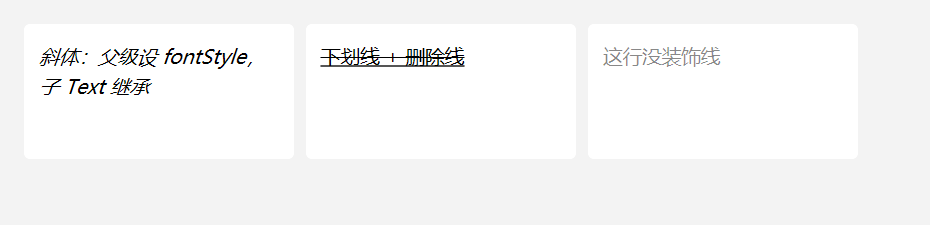
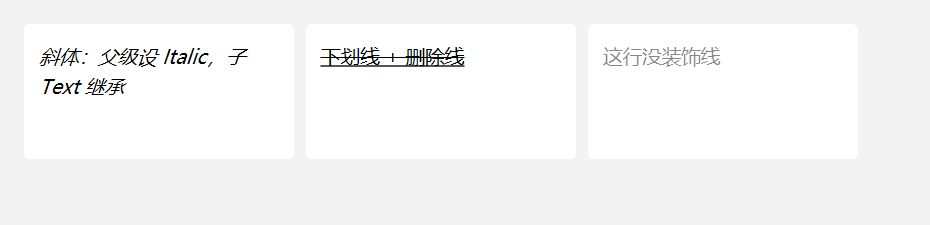
style

Changed region(s): [[0.0312, 0.3422, 0.1871, 0.4356], [0.1559, 0.2178, 0.2806, 0.3111]]

diff --git a/DUI/UI/Style.h b/DUI/UI/Style.h
@@ -43,6 +43,7 @@ enum class Prop : uint16_t {
     // 布局
     Display, FlexDirection, FlexShrink, FlexGrow, Gap, JustifyContent, AlignItems,
     // 布局（续）
+    //   FlexWrap      u = 1 换行 / 0 不换行（仅 Row；同 CSS flex-wrap 的 wrap/nowrap 子集）
     FlexWrap,
     // 滚动条（dui::Scroller 自绘轨道/滑块；宽度 = 纵向条厚，高度 = 横向条厚）
     ScrollbarTrackWidth, ScrollbarTrackHeight,
@@ -60,19 +61,19 @@ enum class Prop : uint16_t {
     // u = 颜色 ARGB（0 = 无阴影）。只投元素边框盒，走 Shape 批 kind=3 的 SDF 衰减带。
     Shadow,
     // 字体样式 / 文本装饰（M5.51；追加在表尾，不重排已有属性 ID）：
-    //   FontStyle     u = dui::FontStyle（Normal / Italic；继承属性，同 CSS）
+    //   Italic        u = 1 斜体 / 0 常规（继承属性，同 CSS font-style 的 normal/italic 子集）
     //   TextDecoration u = dui::TextDecoration 位标志（Underline / LineThrough；不继承，同 CSS）
-    FontStyle, TextDecoration,
+    Italic, TextDecoration,
     // 布局 / 文本补充（M5.52；追加在表尾，不重排已有属性 ID）：
     //   LetterSpacing f = 字距（DIP；引擎按 em 千分比下发）
     //   AlignSelf     u = dui::Align（Auto = 未设 → 取父 alignItems）
     //   MinHeight / MaxHeight  f = DIP（与 Min/MaxWidth 对称）
     //   RowGap / ColumnGap    f = DIP（行列间距；未设则回落 gap）
     //   FlexBasis     f = DIP（主轴基准尺寸；按元素盒语义，与 Width 一致）
-    //   Visibility    u = dui::Visibility（继承属性，同 CSS）
+    //   Visible       u = 1 表示可见 / 0 表示隐藏（继承属性；CSS visibility 子集）
     //   Overflow      u = dui::Overflow（Visible / Hidden / Scroll）
     LetterSpacing, AlignSelf, MinHeight, MaxHeight, RowGap, ColumnGap, FlexBasis,
-    Visibility, Overflow,
+    Visible, Overflow,
     // 词距（M5.55；追加在表尾，不重排已有属性 ID）：
     //   WordSpacing f = 词距（DIP；引擎按 em 千分比下发给空格字符区间）
     WordSpacing,
@@ -119,19 +120,14 @@ inline GridTrack Flex(float shares)      { return {GridTrackKind::Flex, shares};
 inline GridTrack Percent(float percent)  { return {GridTrackKind::Percent, percent}; }
 inline constexpr GridTrack Auto{GridTrackKind::Auto, 0.f};
 enum class FlexDirection : uint8_t { Row, Column };
-enum class FlexWrap : uint8_t { NoWrap, Wrap };              // 主轴放不下时换行（仅 Row；04-Layout §4.1 MVP）
 enum class Position : uint8_t { Static, Relative, Absolute, Fixed };   // 04-Layout §4.3
 enum class Justify : uint8_t { Start, Center, End, SpaceBetween, SpaceAround, SpaceEvenly };  // 主轴对齐（04-Layout §4.1）
 // 交叉轴对齐：Stretch 拉满 / Start / Center / End（贴末端）/ Baseline（首行基线对齐）
 enum class Align : uint8_t { Stretch, Start, Center, End, Baseline };
-// 可见性（CSS visibility 子集；**继承属性**）：Hidden = 占位但不画、不命中
-enum class Visibility : uint8_t { Visible, Hidden };
-// 溢出处理（CSS overflow 子集）：Visible 不裁剪 / Hidden 裁剪到内容盒 /
+// 溢出处理（CSS overflow 子集）：Visible 不裁剪 / Hidden 裁剪到元素盒（padding box）/
 // Scroll 裁剪但不显示滚动条（框架的滚动用 Scroller 控件实现）
 enum class Overflow : uint8_t { Visible, Hidden, Scroll };
 enum class FontWeight : uint8_t { Normal, Medium, SemiBold, Bold };
-// CSS font-style 子集：仅常规 / 斜体（oblique 归 italic）
-enum class FontStyle : uint8_t { Normal, Italic };
 // CSS text-decoration 子集（位标志，可组合）：下划线 / 删除线。
 // 无 overline —— DWrite 的 text layout 没有该装饰，引擎也不画。
 enum class TextDecoration : uint8_t {
@@ -267,7 +263,7 @@ public:
     Style& JustifyContent(dui::Justify v);       // 主轴：剩余空间分配
     Style& AlignItems(dui::Align v);             // 交叉轴：子项对齐
     Style& AlignSelf(dui::Align v);              // 交叉轴：单项覆盖（Auto = 未设）
-    Style& FlexWrap(dui::FlexWrap v);            // 主轴放不下时断行（仅 Row）
+    Style& FlexWrap(bool on);                    // 主轴放不下时断行（仅 Row；true = 换行）
     // Grid（04-Layout §4.2）：轨道列表是变长声明，实体存本对象内，
     // FindTracks 沿派生链由近及远找第一个非空定义。
     Style& GridTemplateColumns(std::initializer_list<GridTrack> tracks);
@@ -287,7 +283,7 @@ public:
     Style& Color(dui::Color c);
     Style& FontSize(float dip);
     Style& FontWeight(dui::FontWeight v);
-    Style& FontStyle(dui::FontStyle v);           // 斜体（继承属性，同 CSS font-style）
+    Style& Italic(bool on);                      // 斜体（继承属性；同 CSS font-style 的 normal/italic 子集）
     Style& TextDecoration(dui::TextDecoration v);   // 下划线 / 删除线（位标志，可组合）
     Style& FontFamily(const wchar_t* name);      // 系统已安装字体族；指针需存活到样式使用期
     Style& LineHeight(float multiple);
@@ -296,9 +292,10 @@ public:
     Style& TextAlign(dui::TextAlign v);          // 内容盒内水平对齐（继承属性）
     Style& TextOverflow(dui::TextOverflow v);    // 文本溢出表现（继承属性；Ellipsis = 末尾省略号）
     Style& Opacity(float v);                     // 0..1
-    // 可见性（继承属性，同 CSS visibility）：Hidden = 占位但不画、不命中
-    Style& Visibility(dui::Visibility v);
-    // 溢出：Hidden 裁剪到内容盒；Scroll 裁剪但不画滚动条（滚动用 Scroller 控件）
+    // 可见性（**继承属性**；CSS `visibility` 子集）：false = 占位但不画、不命中
+    // （注意与 `Display::None` 区分：那个是彻底不参与布局）
+    Style& Visible(bool on);
+    // 溢出：Hidden 裁剪到元素盒（padding box）；Scroll 裁剪但不画滚动条（滚动用 Scroller 控件）
     Style& Overflow(dui::Overflow v);
     // 盒模型（CSS box-sizing；非继承）：ContentBox = 宽高不含边框（默认）、
     // BorderBox = 宽高含边框（内容区 = 盒 − 边框 − 内边距）
@@ -391,10 +388,10 @@ struct StyleContext {
     float    letterSpacing = 0.f;     // 继承的字距（DIP）
     float    wordSpacing = 0.f;       // 继承的词距（DIP；加宽词间空格）
     uint32_t fontWeight = 0;
-    uint32_t fontStyle = 0;            // 继承的 dui::FontStyle（默认 Normal）
+    bool    italic = false;           // 继承的斜体（默认常规）
     uint32_t textAlign = 0;            // 继承的 dui::TextAlign（默认 Start）
     uint32_t textOverflow = 0;         // 继承的 dui::TextOverflow（默认 Clip）
-    uint32_t visibility = 0;           // 继承的 dui::Visibility（默认 Visible）
+    bool    visible = true;            // 继承的可见性（默认可见；false = 占位但不画）
     const wchar_t* family = nullptr;   // 继承字体族；nullptr = 引擎默认（微软雅黑）
     float    scale = 1.f;   // 遍历期 DPI 缩放（图像类控件据此把像素尺寸换算为 DIP）
 

diff --git a/DUI/UI/StyleResolve.cpp b/DUI/UI/StyleResolve.cpp
@@ -29,14 +29,14 @@ bool IsInherited(Prop p) {
     case Prop::Color:
     case Prop::FontSize:
     case Prop::FontWeight:
-    case Prop::FontStyle:
+    case Prop::Italic:
     case Prop::FontFamily:
     case Prop::LineHeight:
     case Prop::LetterSpacing:
     case Prop::WordSpacing:
     case Prop::TextAlign:
     case Prop::TextOverflow:
-    case Prop::Visibility:   // 可见性：父设 hidden 则子树隐藏（子可显式设 visible 反转）
+    case Prop::Visible:   // 可见性：父设隐藏则子树隐藏（子可显式设可见反转）
     case Prop::Cursor:   // 光标：父元素设了，子元素未设则沿用（同 CSS 的 cursor 继承）
     case Prop::AppRegion:   // 窗口拖动区：父设 drag 则子树继承（子设 no-drag 挖洞）
         return true;
@@ -113,11 +113,11 @@ bool TryResolve(const Element* e, Prop p, const StyleContext& ctx, StyleValue& o
     case Prop::LetterSpacing: out = MakeF(p, ctx.letterSpacing); return true;
     case Prop::WordSpacing: out = MakeF(p, ctx.wordSpacing); return true;
     case Prop::FontWeight: out = MakeU(p, ctx.fontWeight); return true;
-    case Prop::FontStyle:  out = MakeU(p, ctx.fontStyle);  return true;
+    case Prop::Italic:  out = MakeU(p, ctx.italic ? 1u : 0u);  return true;
     case Prop::FontFamily: out.family = ctx.family;        return true;   // nullptr = 引擎默认
     case Prop::TextAlign:  out = MakeU(p, ctx.textAlign);  return true;
     case Prop::TextOverflow: out = MakeU(p, ctx.textOverflow); return true;
-    case Prop::Visibility: out = MakeU(p, ctx.visibility); return true;
+    case Prop::Visible: out = MakeU(p, ctx.visible ? 1u : 0u); return true;
     default:
         return false;   // 非继承属性：交给内建默认（层 7）
     }
@@ -146,6 +146,11 @@ StyleValue BuiltinDefault(Prop p) {
     case Prop::ScrollbarThumbHeight:        return MakeF(p, 8.f);
     case Prop::ScrollbarTrackBackgroundColor: return MakeU(p, 0x14000000);
     case Prop::ScrollbarThumbBackgroundColor: return MakeU(p, 0x30000000);
+    // 可见性：u = 1 表示可见（默认可见）；default 分支的 0 在这里是"隐藏"，必须显式给
+    case Prop::Visible:        return MakeU(p, 1u);
+    // 两态布尔（u = 1 开启 / 0 关闭）：default 分支的 0 恰是"关闭"，语义正确，显式写出以固化约定
+    case Prop::Italic:         return MakeU(p, 0u);   // 0 = 常规（不斜体）
+    case Prop::FlexWrap:       return MakeU(p, 0u);   // 0 = 不换行
     default:
         return MakeU(p, 0);   // Flex / 透明 / 0 尺寸
     }
@@ -177,11 +182,11 @@ StyleContext StyleContext::Child(const Element* e) const {
     if (TryResolveElement(e, Prop::LetterSpacing, v)) c.letterSpacing = v.f;
     if (TryResolveElement(e, Prop::WordSpacing, v)) c.wordSpacing = v.f;
     if (TryResolveElement(e, Prop::FontWeight, v)) c.fontWeight = v.u;
-    if (TryResolveElement(e, Prop::FontStyle, v))  c.fontStyle = v.u;
+    if (TryResolveElement(e, Prop::Italic, v))  c.italic = (v.u != 0);
     if (TryResolveElement(e, Prop::FontFamily, v)) c.family = v.family;   // nullptr 透传引擎默认
     if (TryResolveElement(e, Prop::TextAlign, v))  c.textAlign = v.u;
     if (TryResolveElement(e, Prop::TextOverflow, v)) c.textOverflow = v.u;
-    if (TryResolveElement(e, Prop::Visibility, v)) c.visibility = v.u;
+    if (TryResolveElement(e, Prop::Visible, v)) c.visible = (v.u != 0);
     return c;
 }
 
@@ -345,7 +350,7 @@ uint32_t PropFlagsOf(Prop p) {
     case Prop::FontFamily:
     case Prop::LineHeight:
     // 斜体 / 文本装饰：段落要重新排版（斜体改字形宽度；装饰线进引擎的形状缓存键）
-    case Prop::FontStyle:
+    case Prop::Italic:
     case Prop::TextDecoration:
     case Prop::TextOverflow:   // 省略号截断要重排（截断点随宽度变）
     case Prop::BoxSizing:     // 盒模型：内容区尺寸随之变化
@@ -364,7 +369,7 @@ uint32_t PropFlagsOf(Prop p) {
     case Prop::AlignItems:
     case Prop::FlexWrap:
     // 布局补充（M5.52）：字距改排版宽度；alignSelf 改单项交叉轴；min/max 高；
-    // 行列间距；flexBasis 改主轴基准尺寸；visibility 改可见性（布局期写命中标记）
+    // 行列间距；flexBasis 改主轴基准尺寸；visible 改可见性（布局期写命中标记）
     case Prop::LetterSpacing:
     case Prop::WordSpacing:
     case Prop::AlignSelf:
@@ -373,7 +378,7 @@ uint32_t PropFlagsOf(Prop p) {
     case Prop::RowGap:
     case Prop::ColumnGap:
     case Prop::FlexBasis:
-    case Prop::Visibility:
+    case Prop::Visible:
     // 定位：改布局盒，需重新 Measure/Arrange
     case Prop::Position:
     case Prop::Left:

diff --git a/DUI/UI/Style.cpp b/DUI/UI/Style.cpp
@@ -71,7 +71,7 @@ Style& Style::FlexBasis(float dip)                 { return SetF(Prop::FlexBasis
 Style& Style::JustifyContent(dui::Justify v)       { return SetU(Prop::JustifyContent, static_cast<uint32_t>(v)); }
 Style& Style::AlignItems(dui::Align v)             { return SetU(Prop::AlignItems, static_cast<uint32_t>(v)); }
 Style& Style::AlignSelf(dui::Align v)              { return SetU(Prop::AlignSelf, static_cast<uint32_t>(v)); }
-Style& Style::FlexWrap(dui::FlexWrap v)            { return SetU(Prop::FlexWrap, static_cast<uint32_t>(v)); }
+Style& Style::FlexWrap(bool on)                    { return SetU(Prop::FlexWrap, on ? 1u : 0u); }
 // Grid：占位声明让 Prop 在级联里可见，变长轨道实体存 vector（push_back 避免异常展开实例化）
 Style& Style::GridTemplateColumns(std::initializer_list<GridTrack> tracks) {
     gridCols_.clear();
@@ -95,7 +95,7 @@ Style& Style::Background(dui::Color c)             { return SetU(Prop::Backgroun
 Style& Style::Color(dui::Color c)                  { return SetU(Prop::Color, c); }
 Style& Style::FontSize(float dip)                  { return SetF(Prop::FontSize, dip); }
 Style& Style::FontWeight(dui::FontWeight v)        { return SetU(Prop::FontWeight, static_cast<uint32_t>(v)); }
-Style& Style::FontStyle(dui::FontStyle v)          { return SetU(Prop::FontStyle, static_cast<uint32_t>(v)); }
+Style& Style::Italic(bool on)                   { return SetU(Prop::Italic, on ? 1u : 0u); }
 Style& Style::TextDecoration(dui::TextDecoration v) { return SetU(Prop::TextDecoration, static_cast<uint32_t>(v)); }
 Style& Style::FontFamily(const wchar_t* name) { Ensure(Prop::FontFamily).family = name; return *this; }
 Style& Style::LineHeight(float multiple)      { return SetF(Prop::LineHeight, multiple); }
@@ -104,7 +104,7 @@ Style& Style::WordSpacing(float dip)          { return SetF(Prop::WordSpacing, d
 Style& Style::TextAlign(dui::TextAlign v)     { return SetU(Prop::TextAlign, static_cast<uint32_t>(v)); }
 Style& Style::TextOverflow(dui::TextOverflow v) { return SetU(Prop::TextOverflow, static_cast<uint32_t>(v)); }
 Style& Style::Opacity(float v)                { return SetF(Prop::Opacity, v); }
-Style& Style::Visibility(dui::Visibility v)   { return SetU(Prop::Visibility, static_cast<uint32_t>(v)); }
+Style& Style::Visible(bool on)                  { return SetU(Prop::Visible, on ? 1u : 0u); }
 Style& Style::Overflow(dui::Overflow v)       { return SetU(Prop::Overflow, static_cast<uint32_t>(v)); }
 Style& Style::SelectionColor(dui::Color c)   { return SetU(Prop::SelectionColor, c); }
 Style& Style::CaretColor(dui::Color c)       { return SetU(Prop::CaretColor, c); }

diff --git a/Samples/Style/main.cpp b/Samples/Style/main.cpp
@@ -10,7 +10,7 @@
 //  / BorderStyle）、BoxSizing: BorderBox（边框占盒内空间）、Margin（外边距盒，不塌陷）、
 //  TextAlign（内容盒内对齐 + 继承）、运行时 Set 覆盖（Thickness / 字体族指针）、
 //  Shadow（box-shadow 子集：圆角矩形投影，Shape 批 SDF 衰减带，无纹理/离屏）、
-//  FontStyle（斜体，继承属性）、TextDecoration（下划线 / 删除线，位标志，不继承）、
+//  Italic（斜体，继承属性）、TextDecoration（下划线 / 删除线，位标志，不继承）、
 //  Overflow（默认溢出可见，Hidden 显式截断）、WordSpacing（词距，继承）、
 //  TextOverflow: Ellipsis（单行省略号截断）。
 //
@@ -319,17 +319,17 @@ protected:
             L"这是一段很长很长很长很长很长很长很长很长很长的文字，用来演示省略号截断",
             dui::Style().TextOverflow(dui::TextOverflow::Ellipsis));
 
-        // ---- 斜体 / 文本装饰：fontStyle 继承，textDecoration 不继承 ----------------
-        NewCaption(root, L"FontStyle：斜体（继承属性，父级设置 → 子 Text 生效）；TextDecoration：下划线 / 删除线（位标志，不继承）");
+        // ---- 斜体 / 文本装饰：Italic 继承，textDecoration 不继承 --------------------
+        NewCaption(root, L"Italic：斜体（继承属性，父级设置 → 子 Text 生效）；TextDecoration：下划线 / 删除线（位标志，不继承）");
         dui::Panel* decoRow = root->AddChild<dui::Panel>(dui::Style()
             .FlexDirection(dui::FlexDirection::Row)
             .Gap(12.f));
         dui::Panel* italicBox = decoRow->AddChild<dui::Panel>(dui::Style()
             .Width(210.f).Height(76.f)
             .Background(0xFFFFFFFF).Color(0xFF222222)
-            .FontStyle(dui::FontStyle::Italic)          // 设在容器上 → 子 Text 继承
+            .Italic(true)                         // 设在容器上 → 子 Text 继承
             .Padding(10.f));
-        italicBox->AddChild<dui::Text>(L"斜体：父级设 fontStyle\n子 Text 继承");
+        italicBox->AddChild<dui::Text>(L"斜体：父级设 Italic\n子 Text 继承");
         dui::Panel* decoBox = decoRow->AddChild<dui::Panel>(dui::Style()
             .Width(240.f).Height(76.f)
             .Background(0xFFFFFFFF).Color(0xFF222222)

diff --git a/Samples/Layout/main.cpp b/Samples/Layout/main.cpp
@@ -6,7 +6,7 @@
 //  JustifyContent / AlignItems（主轴/交叉轴对齐）、嵌套容器、
 //  Grid（Fixed/Flex/Auto/Percent 轨道 + 自动放置 + 显式行列 + 跨格）、
 //  JustifyContent 六取值、alignSelf / alignItems::End·Baseline、
-//  FlexBasis、rowGap/columnGap、visibility / overflow / letterSpacing。
+//  FlexBasis、rowGap/columnGap、visible / overflow / letterSpacing。
 //  样式相关示例（Margin / TextAlign / 运行时 Set）见 Samples/Style；
 //  定位相关示例（Relative/Absolute/Fixed/zIndex）见 Samples/Position。
 //
@@ -214,7 +214,7 @@ protected:
         NewCaption(root, L"FlexWrap + columnGap 12 / rowGap 20：换行后列间距与行间距分开");
         dui::Panel* wrapBox = root->AddChild<dui::Panel>(dui::Style()
             .FlexDirection(dui::FlexDirection::Row)
-            .FlexWrap(dui::FlexWrap::Wrap)
+            .FlexWrap(true)
             .ColumnGap(12.f).RowGap(20.f)
             .Width(320.f)
             .Padding(8.f)
@@ -223,7 +223,7 @@ protected:
             NewBox(wrapBox, L"item", 0xFF4472C4, 80.f, 40.f);
 
         // ---- 可见性 / 溢出裁剪 / 字距 -----------------------------------------
-        NewCaption(root, L"Visibility 隐藏但占位 · Overflow 裁剪到内容盒 · LetterSpacing 字距");
+        NewCaption(root, L"Visible(false) 隐藏但占位 · Overflow 裁剪到元素盒 · LetterSpacing 字距");
         dui::Panel* miscRow = root->AddChild<dui::Panel>(dui::Style()
             .FlexDirection(dui::FlexDirection::Row)
             .Gap(12.f)
@@ -231,7 +231,7 @@ protected:
         dui::Panel* hiddenBox = miscRow->AddChild<dui::Panel>(dui::Style()
             .Width(120.f).Height(58.f)
             .Background(0xFF4472C4).CornerRadius(4.f)
-            .Visibility(dui::Visibility::Hidden));   // 占位但不画
+            .Visible(false));   // 占位但不画
         hiddenBox->AddChild<dui::Text>(L"看不见", dui::Style().Color(0xFFFFFFFF));
         dui::Panel* clipBox = miscRow->AddChild<dui::Panel>(dui::Style()
             .Width(220.f).Height(58.f)

diff --git a/DUI/UI/RichEditor.cpp b/DUI/UI/RichEditor.cpp
@@ -286,7 +286,7 @@ struct RichEditor::Impl {
     float        layoutLine = 0.f;
     String       layoutFamily;
     StyleContext lastCtx{};
-    // 段落默认（元素级 fontStyle / textDecoration）：run 级只在显式为真时覆盖，
+    // 段落默认（元素级 italic / textDecoration）：run 级只在显式为真时覆盖，
     // 未设的 run 沿用本值 → 整个编辑器可一键斜体 / 加下划线。
     // baseDeco 是 dui::TextDecoration 位标志。
     bool         baseItalic = false;
@@ -1125,7 +1125,7 @@ void RichEditor::Impl::EnsureLayout(const StyleContext& ctx, float width) {
     const wchar_t* family = !doc.defaultFont.empty() ? doc.defaultFont.c_str() : ctx.family;
     const wchar_t* fam = (family != nullptr) ? family : L"";
     // 段落默认：斜体是继承属性 → ctx 已带父计算值；装饰线不继承 → 查元素自身链
-    const bool italic = ctx.fontStyle == static_cast<uint32_t>(dui::FontStyle::Italic);
+    const bool italic = ctx.italic;
     const uint32_t deco = ResolveProperty(host, Prop::TextDecoration, ctx).u;
     const float letterSpacing = ctx.letterSpacing;
     const float wordSpacing = ctx.wordSpacing;

diff --git a/DUI/UI/Layout.cpp b/DUI/UI/Layout.cpp
@@ -296,7 +296,7 @@ Vec2 MeasureElement(Element* e, const Vec2& avail, const StyleContext& parentCtx
 
     const StyleContext ctx = parentCtx.Child(e);
     // 可见性（继承属性）：隐藏但仍占位。命中测试没有 StyleContext，故布局期落标记。
-    e->hidden_ = ctx.visibility == static_cast<uint32_t>(Visibility::Hidden);
+    e->hidden_ = !ctx.visible;
     const Thickness pad = ElementPadding(e, ctx);
     const Thickness mg = ElementMargin(e, ctx);
     const Thickness bw = ElementBorderBox(e, ctx);   // border-box：边框占盒内空间
@@ -414,7 +414,7 @@ void ArrangeElement(Element* e, const Rect& slot, const StyleContext& parentCtx,
     // 主轴剩余空间分配：grow 拉伸 / shrink 收缩（04-Layout §4.1）；
     // 换行布局按行装箱，不参与 grow/shrink
     const uint32_t wrapMode = ResolveProperty(e, Prop::FlexWrap, ctx).u;
-    const bool wrapRow = row && wrapMode == static_cast<uint32_t>(FlexWrap::Wrap);
+    const bool wrapRow = row && wrapMode != 0;
     const int n = static_cast<int>(items.size());
     float total = 0.f;
     for (Element* c : items) total += row ? c->measured_.x : c->measured_.y;

diff --git a/Samples/Animation/main.cpp b/Samples/Animation/main.cpp
@@ -5,7 +5,7 @@
 //  控件和回调都写在函数内部，没有成员变量、没有跨示例状态。想看哪个功能
 //  就直接读那个函数，OnCreate 只是把示例名列一遍。
 //
-//  root 用 Row + FlexWrap(Wrap) 自动排成示例网格；FontSize / Color 是继承
+//  root 用 Row + FlexWrap(true) 自动排成示例网格；FontSize / Color 是继承
 //  属性，由 root 一次设好下传，所以单个示例里不需要重复写外观配置。
 //  示例 11 / 12 演示多通道补间：Thickness 四边（每帧重排）与四角圆角（只重绘）。
 //  示例 13 演示生命周期控制：Animate 只创建动画，Start 才执行；一组句柄可统一
@@ -326,7 +326,7 @@ protected:
         dui::Panel* root = Root();
         root->SetStyle(dui::Style()
             .FlexDirection(dui::FlexDirection::Row)
-            .FlexWrap(dui::FlexWrap::Wrap)
+            .FlexWrap(true)
             .AlignItems(dui::Align::Start)
             .Gap(14.f).Padding(16.f)
             .FontSize(13.f).Color(0xFF1F2933)

diff --git a/DUI/UI/Element.h b/DUI/UI/Element.h
@@ -351,7 +351,7 @@ public:
     // Measure 结果（外边距盒 = 元素盒 + margin）：Grid / 自定义布局读子项占位用
     Vec2 Measured() const noexcept { return measured_; }
 
-    // 可见性（visibility: hidden）：占位但不画、不命中。布局期按继承算好后写入
+    // 可见性（visible: false）：占位但不画、不命中。布局期按继承算好后写入
     // （命中测试没有 StyleContext，故用布局期结果，避免每次命中都上溯父链）。
     bool Hidden() const noexcept { return hidden_; }
 
@@ -447,7 +447,7 @@ private:
     std::unique_ptr<Handlers> handlers_;
 
     int  tabIndex_ = 0;        // Tab 链次序（见 SetTabIndex 注释）
-    bool hidden_ = false;      // visibility: hidden（布局期写；命中 / 绘制读）
+    bool hidden_ = false;      // visible: false（布局期写；命中 / 绘制读）
 
 private:
     // 布局 / 解析 / 事件实现（Layout.cpp、StyleResolve.cpp、Event.cpp）

diff --git a/Samples/Event/main.cpp b/Samples/Event/main.cpp
@@ -6,7 +6,7 @@
 //  想看哪种事件就直接读那个函数，OnCreate 只是把示例名列一遍。
 //
 //  日志直接读回 dui::Text 的当前内容再追加一行，不需要 vector / 环形缓冲。
-//  root 用 Row + FlexWrap(Wrap) 自动排成示例网格；FontSize / Color 由继承
+//  root 用 Row + FlexWrap(true) 自动排成示例网格；FontSize / Color 由继承
 //  下传，单个示例里不重复写外观配置。
 //  可路由事件分两阶段：隧道（根 → 命中）+ 冒泡（命中 → 根）；
 //  Enter / Leave 是直达事件，没有阶段。指针捕获（Element::SetCapture）属于
@@ -197,7 +197,7 @@ protected:
         dui::Panel* root = Root();
         root->SetStyle(dui::Style()
             .FlexDirection(dui::FlexDirection::Row)
-            .FlexWrap(dui::FlexWrap::Wrap)
+            .FlexWrap(true)
             .AlignItems(dui::Align::Start)
             .Gap(14.f).Padding(16.f)
             .FontSize(13.f).Color(0xFF1F2933)

diff --git a/Samples/CustomFont/main.cpp b/Samples/CustomFont/main.cpp
@@ -88,13 +88,13 @@ protected:
         root->AddChild<dui::Text>(L"支持格式：ttf / otf / ttc（DirectWrite 只认 SFNT）；woff2 需先转换",
                                   dui::Style().FontSize(12.f).Color(0xFF9CA3AF).FlexShrink(0.f));
 
-        // 图标流式排列：单行 Row + FlexWrap(Wrap)，宽度不够自动换行，图标本体用 iconfont 族 + 大字号
+        // 图标流式排列：单行 Row + FlexWrap(true)，宽度不够自动换行，图标本体用 iconfont 族 + 大字号
         dui::Panel* grid = root->AddChild<dui::Panel>(dui::Style()
             .Gap(20.f));
         wchar_t glyph[2] = {};
         dui::Panel* line = grid->AddChild<dui::Panel>(dui::Style()
             .FlexDirection(dui::FlexDirection::Row)
-            .FlexWrap(dui::FlexWrap::Wrap)
+            .FlexWrap(true)
             .Gap(28.f));
         for (int idx = 0; idx < 13; ++idx) {
             dui::Panel* cell = line->AddChild<dui::Panel>(dui::Style()

diff --git a/DUI/UI/TextBox.cpp b/DUI/UI/TextBox.cpp
@@ -524,8 +524,7 @@ Vec2 TextBox::MeasureContent(const StyleContext& ctx, const Vec2& contentAvail) 
     in.letterSpacing = ctx.letterSpacing;   // 字距（继承属性）
     in.wordSpacing = ctx.wordSpacing;       // 词距（继承属性）
     // 斜体（继承属性）/ 文本装饰（不继承）：整段默认，run 级由富文本路径覆盖
-    in.italic = ResolveProperty(this, Prop::FontStyle, ctx).u ==
-                static_cast<uint32_t>(dui::FontStyle::Italic);
+    in.italic = ResolveProperty(this, Prop::Italic, ctx).u != 0;
     const uint32_t deco = ResolveProperty(this, Prop::TextDecoration, ctx).u;
     in.underline = dui::HasDecoration(deco, dui::TextDecoration::Underline);
     in.strike = dui::HasDecoration(deco, dui::TextDecoration::LineThrough);
